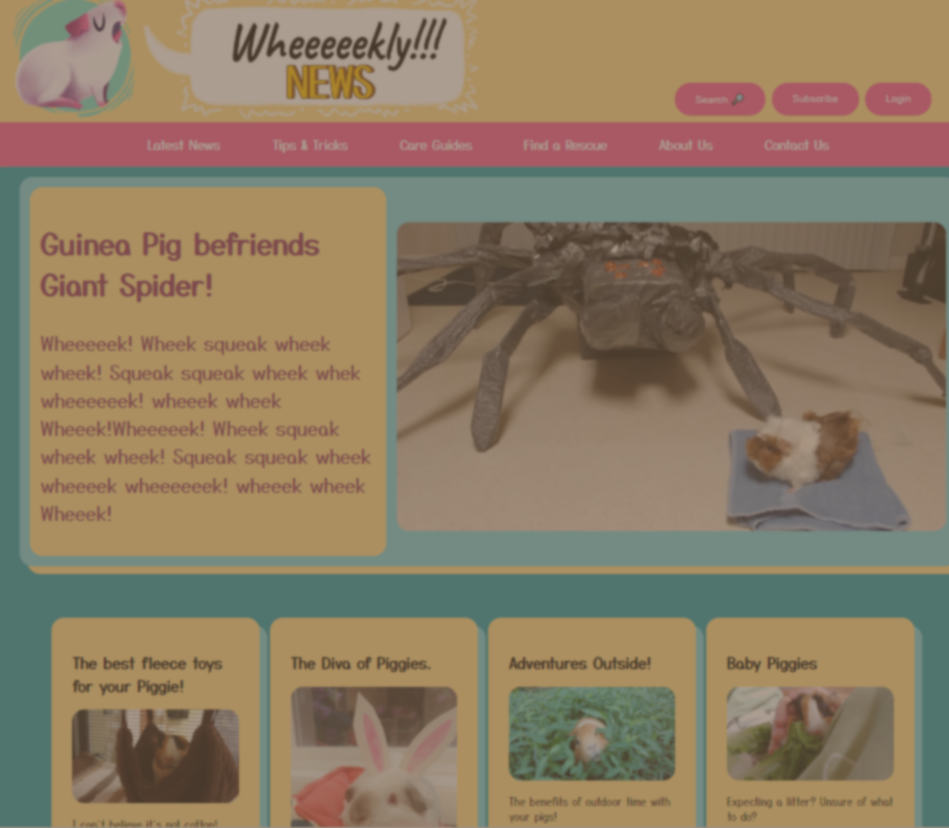
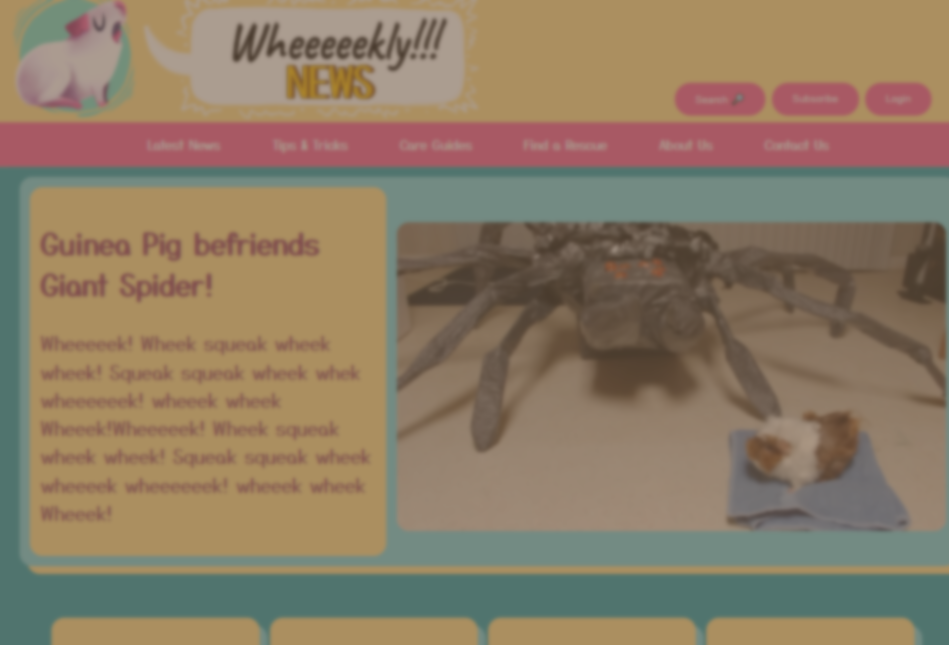
Adjusted featured projects, moved h1 inside wrapper div

diff --git a/Code/style.css b/Code/style.css
@@ -132,8 +132,7 @@ header {
  }
 
  .summary-text {
-    width: 80%;
-    margin-left: 30px;
+    width: 70%;
     text-align: left;
  }
 
@@ -150,7 +149,7 @@ header {
 
 .tech-section h1 {
     padding: 4px;
-    width: 70px;
+    /* margin-right: 54px; */
     background-color: #562349;
     font-size: 22px;
     color: #fff;
@@ -159,11 +158,13 @@ header {
 
 .tech-text {
     font-size: 18px;
-    width: 80%;
-    margin-bottom: 10px;
+    width: 70%;
+    margin: 0 54px 0 10px;
 
 }
+
 /***FEATURED PROJECTS SECTION***/
+
 .featured-projects-section {
     display: flex;
     flex-direction: column;
@@ -175,26 +176,32 @@ header {
     padding: 0;
 }
 
-.featured-projects-section h1 {
+.projects-wrapper {
+    width: 70%;
+    display: flex;
+    justify-content: center;
+    align-items: center;
+    flex-direction: column;
+    margin-right: 54px; 
+    position: relative;   
+}
+
+.projects-wrapper h1 {
     width: 260px;
-    padding: 4px;
+    padding: 4px 0;
+    margin: 50px 0;
     font-size: 22px;
     text-align: center;
     color: #fff;
-    background-color: #821752;    
-}
-
-.project-wrapper {
-    width: 50%;
-    padding: 10px;
+    background-color: #821752;
 }
 
 .project-card {    
     display: flex;
     flex-direction: column;
-    align-items: center;
-    padding: 16px;
-    position: relative;
+    
+    
+    /* position: relative; */
 }
 
 .project-card a {  
@@ -210,6 +217,7 @@ header {
     font-size: 28px;
     font-weight: bold;
     color: white;
+    margin: 0;
 }
 
 .project-image {
@@ -218,7 +226,7 @@ header {
 
 .short-summary-text {
     width: 80%;
-    padding: 0 20px;
+    
 }
 
 .tag-word-container {
@@ -237,13 +245,13 @@ header {
     background-color: #76d1c0;
 }
 
-.short-tag-word {
+/* .short-tag-word {
     width: 60px;
 }
 
 .long-tag-word {
     width: 100px;
-}
+} */
     
 
 

diff --git a/Code/index.html b/Code/index.html
@@ -58,8 +58,8 @@
        </article>
    </section>
    <section class="featured-projects-section">
-        <h1>FEATURED PROJECTS</h1>
-        <div class="projects-wrapper">
+        <div class="projects-wrapper"> 
+            <h1>FEATURED PROJECTS</h1>
             <article class="project-card">
                 <a href="https://wheeeeklynews.netlify.app/" target="_blank" alt="link to news site project">
                     <h2 class="title-project">News Site</h2>
@@ -84,7 +84,7 @@
                     <h2>Project Title</h2>
                     <p>Short Description of project here.</p>
                 </article>
-        </div>
+            </div>
         </div>
     </section>
     <section class="my-thoughts-section">
